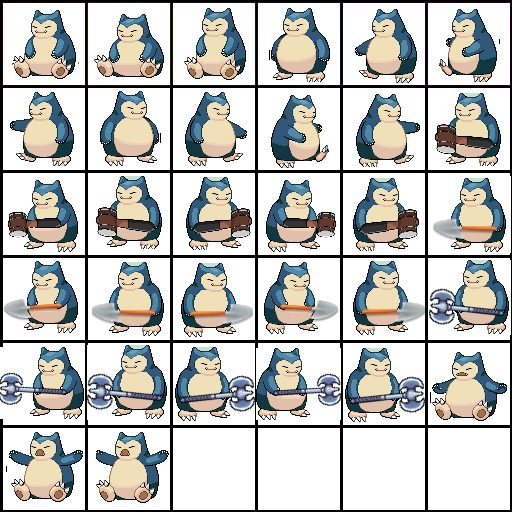
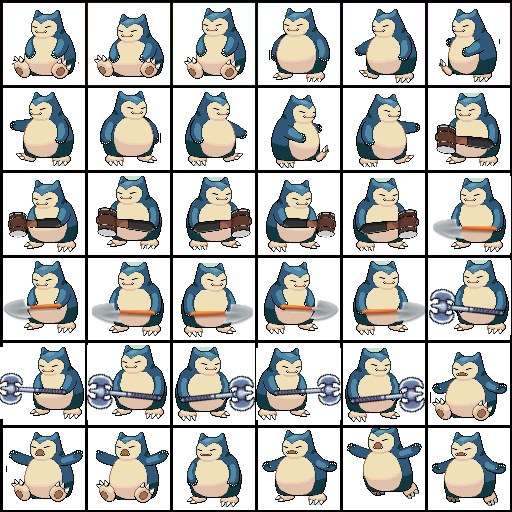
fsm nearly done

diff --git a/AnimationFSM/AnimatedSprite.cpp b/AnimationFSM/AnimatedSprite.cpp
@@ -42,6 +42,7 @@ void AnimatedSprite::update(){
 	switch (animation)
 	{
 	default:
+		//Idle
 	case 0:
 		addFrame(sf::IntRect(3, 3, 84, 84));
 		addFrame(sf::IntRect(88, 3, 84, 84));
@@ -49,6 +50,7 @@ void AnimatedSprite::update(){
 		m_frames.resize(3);
 		break;
 
+		//Walk left
 	case 1:
 		addFrame(sf::IntRect(258, 3, 84, 84));
 		addFrame(sf::IntRect(343, 3, 84, 84));
@@ -57,6 +59,7 @@ void AnimatedSprite::update(){
 		m_frames.resize(4);
 		break;
 
+		//Walk right
 	case 2:
 		addFrame(sf::IntRect(88, 88, 84, 84));
 		addFrame(sf::IntRect(173, 88, 84, 84));
@@ -64,14 +67,72 @@ void AnimatedSprite::update(){
 		addFrame(sf::IntRect(343, 88, 84, 84));
 		m_frames.resize(4);
 		break;
-	//case 3:
-	//	break;
-	//case 4:
-	//	break;
-	//case 5:
-	//	break;
-	//case 6:
-	//	break;
+
+		//Jump
+	case 3:
+		addFrame(sf::IntRect(173, 428, 84, 84));
+		addFrame(sf::IntRect(258, 428, 84, 84));
+		addFrame(sf::IntRect(343, 428, 84, 84));
+		addFrame(sf::IntRect(428, 428, 84, 84));
+ 		m_frames.resize(4);
+		break;
+
+		//Shovel left
+	case 4:
+		addFrame(sf::IntRect(428, 173, 84, 84));
+		addFrame(sf::IntRect(3, 258, 84, 84));
+		addFrame(sf::IntRect(88, 258, 84, 84));
+		m_frames.resize(3);
+		break;
+
+		//Shovel Right
+	case 5:
+		addFrame(sf::IntRect(173, 258, 84, 84));
+		addFrame(sf::IntRect(258, 258, 84, 84));
+		addFrame(sf::IntRect(343, 258, 84, 84));
+		m_frames.resize(3);
+		break;
+
+		//Sword left
+	case 6:
+		addFrame(sf::IntRect(428, 258, 84, 84));
+		addFrame(sf::IntRect(3, 343, 84, 84));
+		addFrame(sf::IntRect(88, 343, 84, 84));
+		m_frames.resize(3);
+		break;
+
+		//Sword right
+	case 7:
+		addFrame(sf::IntRect(173, 343, 84, 84));
+		addFrame(sf::IntRect(258, 343, 84, 84));
+		addFrame(sf::IntRect(343, 343, 84, 84));
+		m_frames.resize(3);
+		break;
+
+		//Roar
+	case 8:
+		addFrame(sf::IntRect(428, 343, 84, 84));
+		addFrame(sf::IntRect(3, 428, 84, 84));
+		addFrame(sf::IntRect(88, 428, 84, 84));
+		m_frames.resize(3);
+		break;
+
+		//Hammer Left
+	case 9:
+		addFrame(sf::IntRect(428, 88, 84, 84));
+		addFrame(sf::IntRect(3, 173, 84, 84));
+		addFrame(sf::IntRect(88, 173, 84, 84));
+		m_frames.resize(3);
+		break;
+
+		//Hammer Right
+	case 10:
+		addFrame(sf::IntRect(173, 173, 84, 84));
+		addFrame(sf::IntRect(258, 173, 84, 84));
+		addFrame(sf::IntRect(343, 173, 84, 84));
+		m_frames.resize(3);
+		break;
+
 		
 	}
 

diff --git a/AnimationFSM/main.cpp b/AnimationFSM/main.cpp
@@ -11,14 +11,14 @@ int main()
 {
 	// Create the main window
 	sf::RenderWindow window(sf::VideoMode(800, 600), "SFML window");
-	
+	bool lastKeyPressed = false;
 	// Load a sprite to display
 	sf::Texture texture;
 	if (!texture.loadFromFile("assets\\grid.png")) {
 		DEBUG_MSG("Failed to load file");
 		return EXIT_FAILURE;
 	}
-
+	
 	// Setup Players Default Animated Sprite
 	AnimatedSprite animated_sprite(texture);
 	/*animated_sprite.addFrame(sf::IntRect(258, 3, 84, 84));
@@ -45,33 +45,64 @@ int main()
 				if (sf::Keyboard::isKeyPressed(sf::Keyboard::Left))
 				{
 					input.setCurrent(Input::Action::WALK);
+					lastKeyPressed = false;
 					animated_sprite.setType(1);
+					
 				}
 				else if (sf::Keyboard::isKeyPressed(sf::Keyboard::Right))
 				{
 					input.setCurrent(Input::Action::WALK);
+					lastKeyPressed = true;
 					animated_sprite.setType(2);
+					
 				}
 				else if (sf::Keyboard::isKeyPressed(sf::Keyboard::Up))
 				{
 					input.setCurrent(Input::Action::JUMP);
+					animated_sprite.setType(3);
 				}
 				else if (sf::Keyboard::isKeyPressed(sf::Keyboard::Down))
 				{
 					input.setCurrent(Input::Action::SHOVEL);
+					if(lastKeyPressed==false)
+					{
+						animated_sprite.setType(4);
+					}
+					else if (lastKeyPressed == true)
+					{
+						animated_sprite.setType(5);
+					}
 				}
 			case sf::Event::TextEntered:
 				if (sf::Keyboard::isKeyPressed(sf::Keyboard::S))
 				{
 					input.setCurrent(Input::Action::SWORD);
+					if (lastKeyPressed == false)
+					{
+						animated_sprite.setType(6);
+					}
+					else if (lastKeyPressed == true)
+					{
+						animated_sprite.setType(7);
+					}
 				}
 				else if (sf::Keyboard::isKeyPressed(sf::Keyboard::R))
 				{
 					input.setCurrent(Input::Action::ROAR);
+					animated_sprite.setType(8);
+					
 				}
 				else if (sf::Keyboard::isKeyPressed(sf::Keyboard::H))
 				{
 					input.setCurrent(Input::Action::HAMMER);
+					if (lastKeyPressed == false)
+					{
+						animated_sprite.setType(9);
+					}
+					else if (lastKeyPressed == true)
+					{
+						animated_sprite.setType(10);
+					}
 				}
 				break;
 			default:
